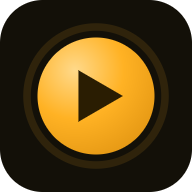
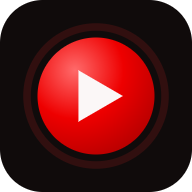
Palette: red
YouTube red on near-black. Neutrals shift from warm brown to a red-cast
near-black so the red doesn't read muddy.

Red is too dark for near-black type, so selected chips and the Feed me disc
take white labels — which forces the fill (#d10000) darker than the neon
(#ff2626), since white on pure red is only 4.0:1.

Cost: the "Open in YouTube" button can no longer hold a hue of its own, so
the one action that leaves the app stops standing out from the accent.

Changed region(s): [[0.1875, 0.1875, 0.8125, 0.8125]]

diff --git a/styles.css b/styles.css
@@ -41,38 +41,38 @@
 }
 
 :root{
-  /* ---- palette: gold ----
+  /* ---- palette: red ----
      Every colour the app uses lives here. Swapping these values repaints the
      whole thing; nothing below this block hardcodes a colour. */
-  --void:#0a0906;        /* behind the phone on desktop */
-  --bg:#131008;          /* dim diner at night */
-  --glow-top:#241d0e;    /* the wash behind the header */
-  --frame:#2c2717;
-  --surface:#1e1a10;
-  --surface-2:#26200f;
-  --line:#3a3218;
+  --void:#0a0707;        /* behind the phone on desktop */
+  --bg:#100b0b;          /* dim diner at night */
+  --glow-top:#2b1414;    /* the wash behind the header */
+  --frame:#2e1e1e;
+  --surface:#1b1313;
+  --surface-2:#241818;
+  --line:#3a2222;
 
-  --accent:#ffb224;      /* neon sign: logo, glows, cooking dots */
-  --accent-rgb:255,178,36;
-  --accent-soft:#ffcf6b; /* focus rings */
-  --accent-fill:#ffb224; /* selected chips */
-  --on-accent:#241a02;   /* type on that fill — amber is too light for white */
-  --disc-hi:#ffd98a;     /* the Feed me disc, lit from upper-left */
-  --disc-mid:#ffb224;
-  --disc-lo:#d98c0c;
-  --sub-opacity:.75;     /* 'tap once · eat' */
+  --accent:#ff2626;      /* neon sign: logo, glows, cooking dots */
+  --accent-rgb:255,38,38;
+  --accent-soft:#ff7a7a; /* focus rings */
+  --accent-fill:#d10000; /* selected chips — darker than the neon so white type clears AA */
+  --on-accent:#fff;
+  --disc-hi:#ff6a6a;     /* the Feed me disc, lit from upper-left */
+  --disc-mid:#ee0000;
+  --disc-lo:#9c0000;
+  --sub-opacity:1;       /* 'tap once · eat' — any less drops under AA on red */
 
-  --cta:#e4572e;         /* Open in YouTube keeps its own red, distinct from the accent */
-  --cta-rgb:228,87,46;
+  --cta:#d10000;         /* with a red accent the CTA can't hold its own hue */
+  --cta-rgb:209,0,0;
   --on-cta:#fff;
 
-  --ink-dim:#a89a78;
-  --ink:#f2ead6;
-  --footer-ink:#5c543a;
-  --paper:#faf5e9;       /* order ticket */
-  --paper-ink:#221c10;
-  --paper-dim:#77704f;
-  --paper-rule:#b9b092;
+  --ink-dim:#a89898;
+  --ink:#f4ecec;
+  --footer-ink:#5f4a4a;
+  --paper:#f8f4f1;       /* order ticket */
+  --paper-ink:#1e1616;
+  --paper-dim:#736a6a;
+  --paper-rule:#c9bcbc;
 
   --sans:-apple-system, BlinkMacSystemFont, "Segoe UI", system-ui, sans-serif;
   --display:"Bricolage Grotesque", var(--sans);

diff --git a/index.html b/index.html
@@ -6,7 +6,7 @@
 <title>Feedr — dinner's on, video's picked</title>
 <meta name="description" content="One tap picks what you watch while you eat. No scrolling, no menu paralysis.">
 
-<meta name="theme-color" content="#131008">
+<meta name="theme-color" content="#100b0b">
 <meta name="color-scheme" content="dark">
 
 <!-- installable on iOS home screen -->

diff --git a/sw.js b/sw.js
@@ -1,6 +1,6 @@
 /* Feedr service worker — offline shell + always-fresh catalog.
    Bump CACHE whenever you change a shell file, so phones drop the old copy. */
-const CACHE = "feedr-gold";
+const CACHE = "feedr-red";
 
 const SHELL = [
   "./",

diff --git a/tools/make-icons.py b/tools/make-icons.py
@@ -13,9 +13,9 @@ from pathlib import Path
 
 OUT = Path(__file__).resolve().parent.parent / "icons"
 
-BG = (0x13, 0x10, 0x08)
-PLAY = (0x2A, 0x1D, 0x02)
-STOPS = [(0.00, (0xFF, 0xD9, 0x8A)), (0.42, (0xFF, 0xB2, 0x24)), (1.00, (0xD9, 0x8C, 0x0C))]
+BG = (0x10, 0x0B, 0x0B)
+PLAY = (0xFB, 0xF7, 0xF7)
+STOPS = [(0.00, (0xFF, 0x6A, 0x6A)), (0.42, (0xEE, 0x00, 0x00)), (1.00, (0x9C, 0x00, 0x00))]
 
 
 def lerp(a, b, t):
@@ -97,7 +97,7 @@ def render(size, maskable=False, square=False):
 
             ring_a = coverage(abs(math.hypot(x - cx, y - cy) - ring) - ring_w / 2)
             if ring_a > 0:
-                col = over(col, (0xFF, 0xB2, 0x24), ring_a * 0.12)
+                col = over(col, (0xFF, 0x26, 0x26), ring_a * 0.14)
 
             disc_a = coverage(math.hypot(x - cx, y - cy) - r)
             if disc_a > 0:
